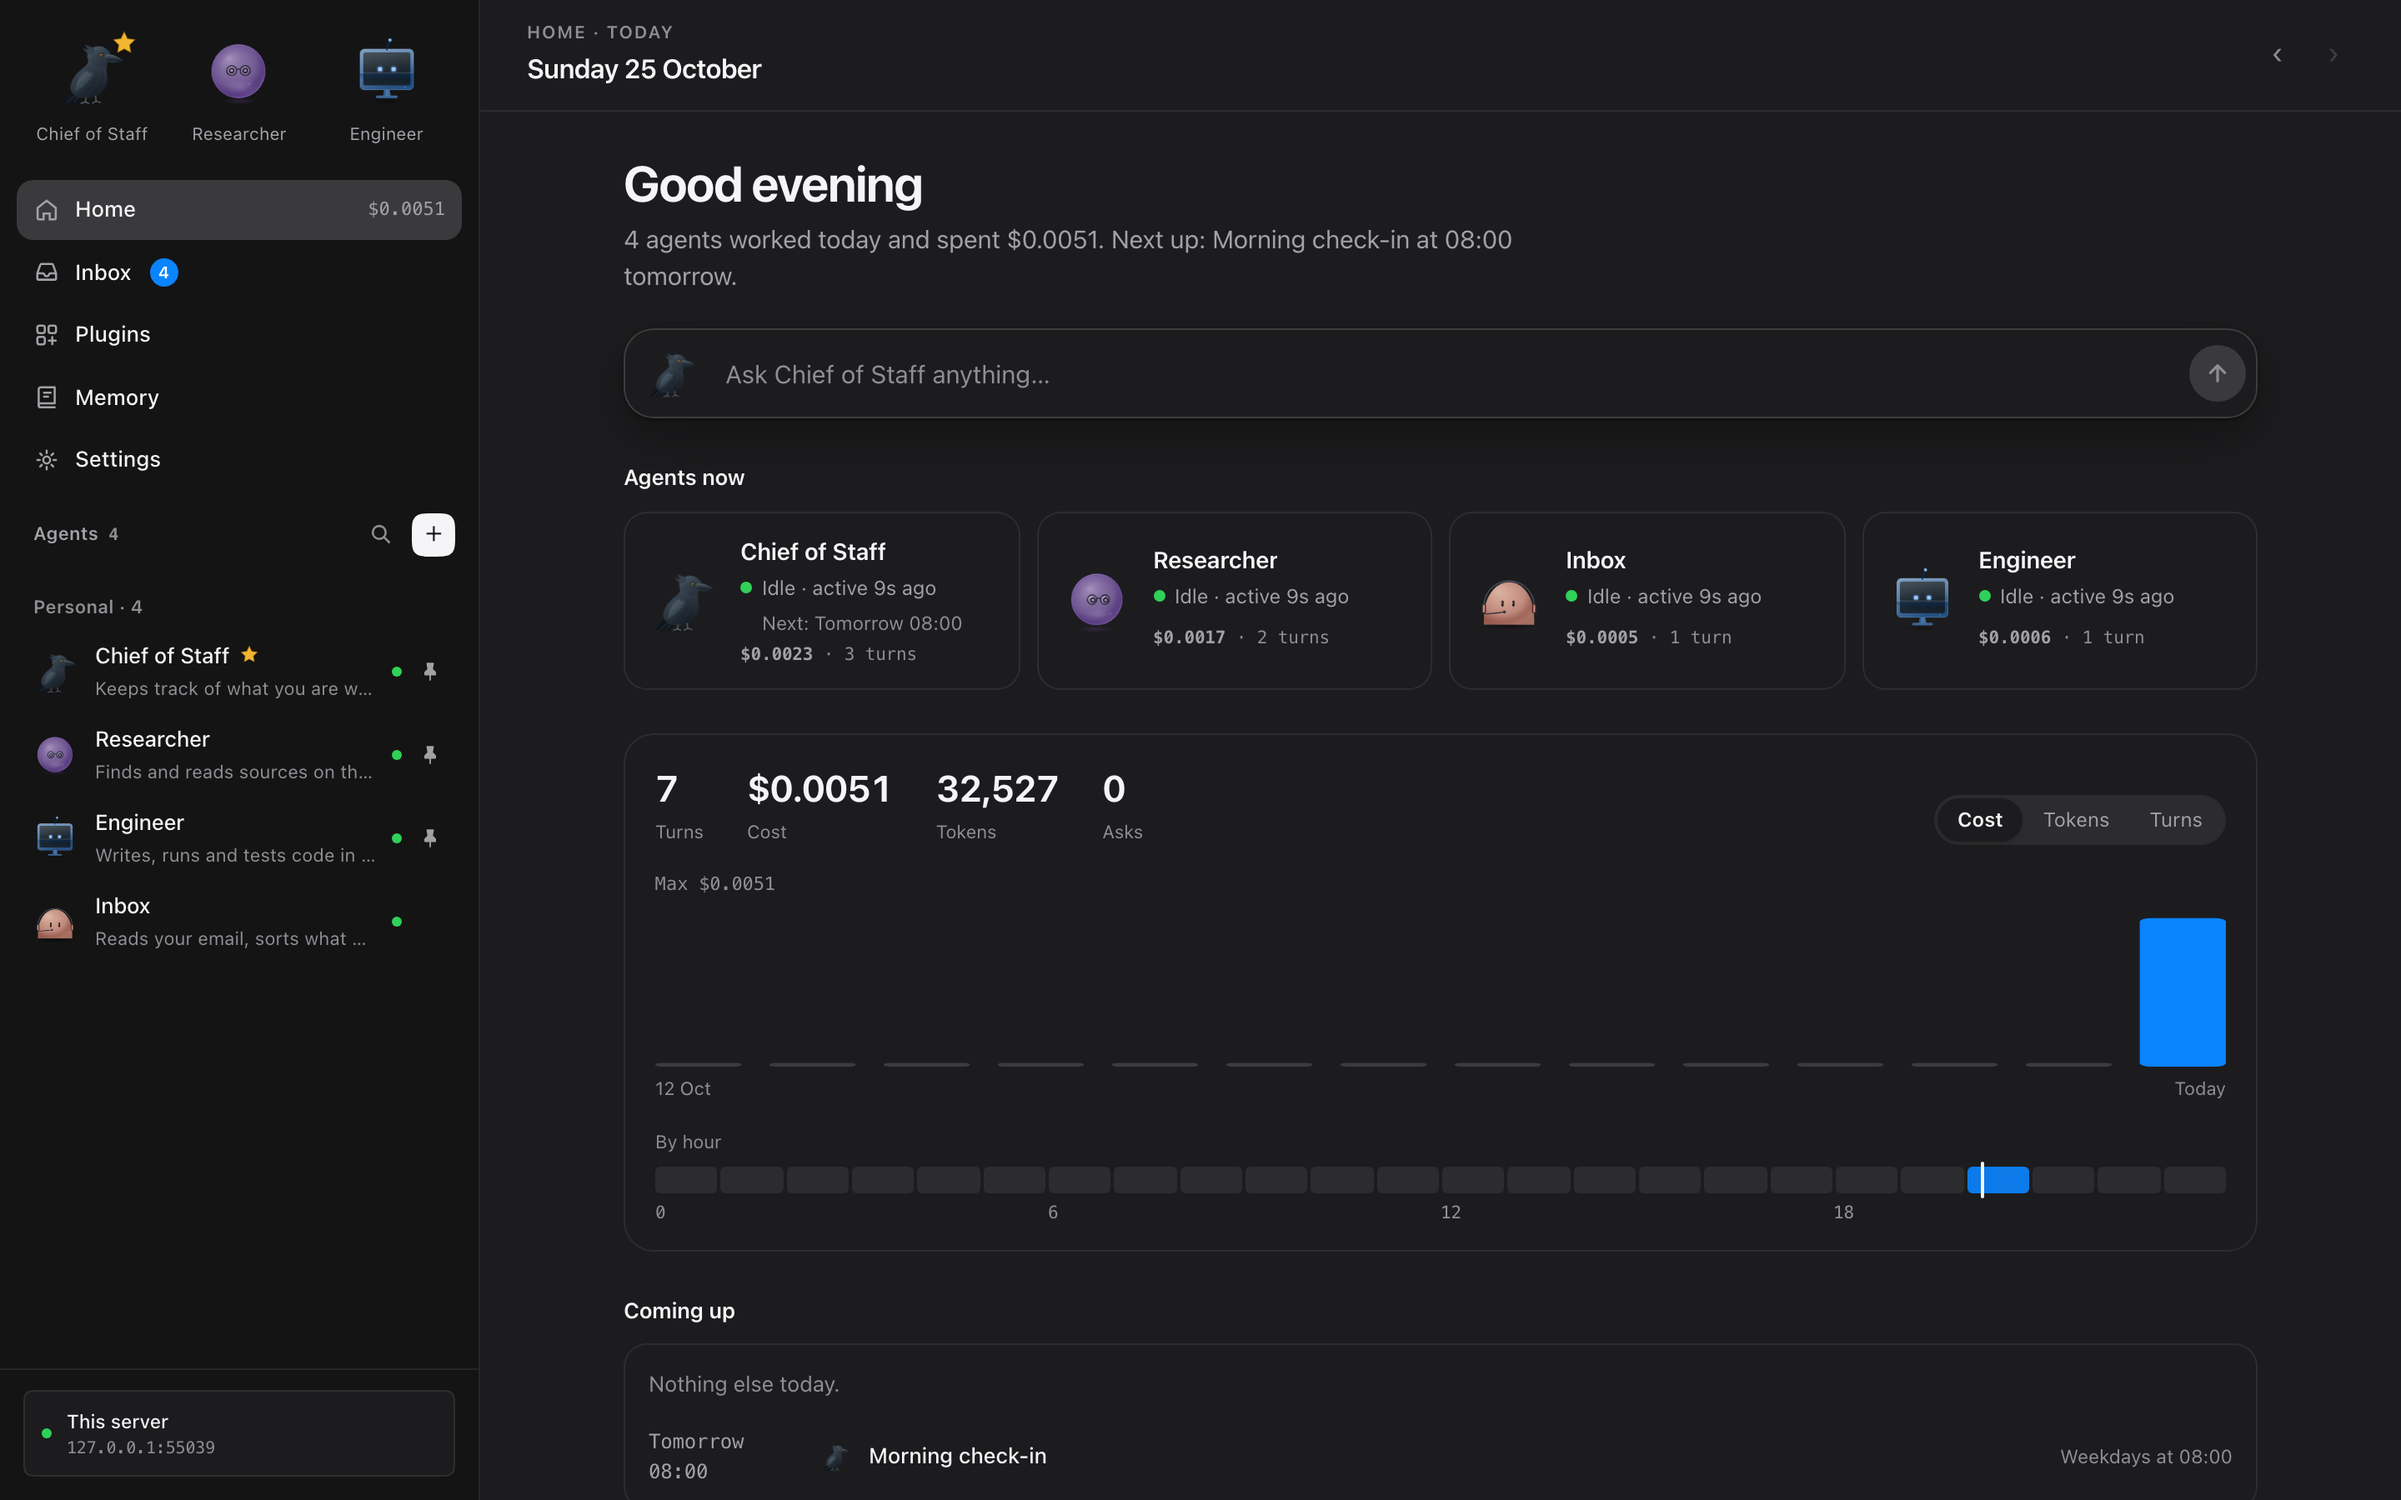
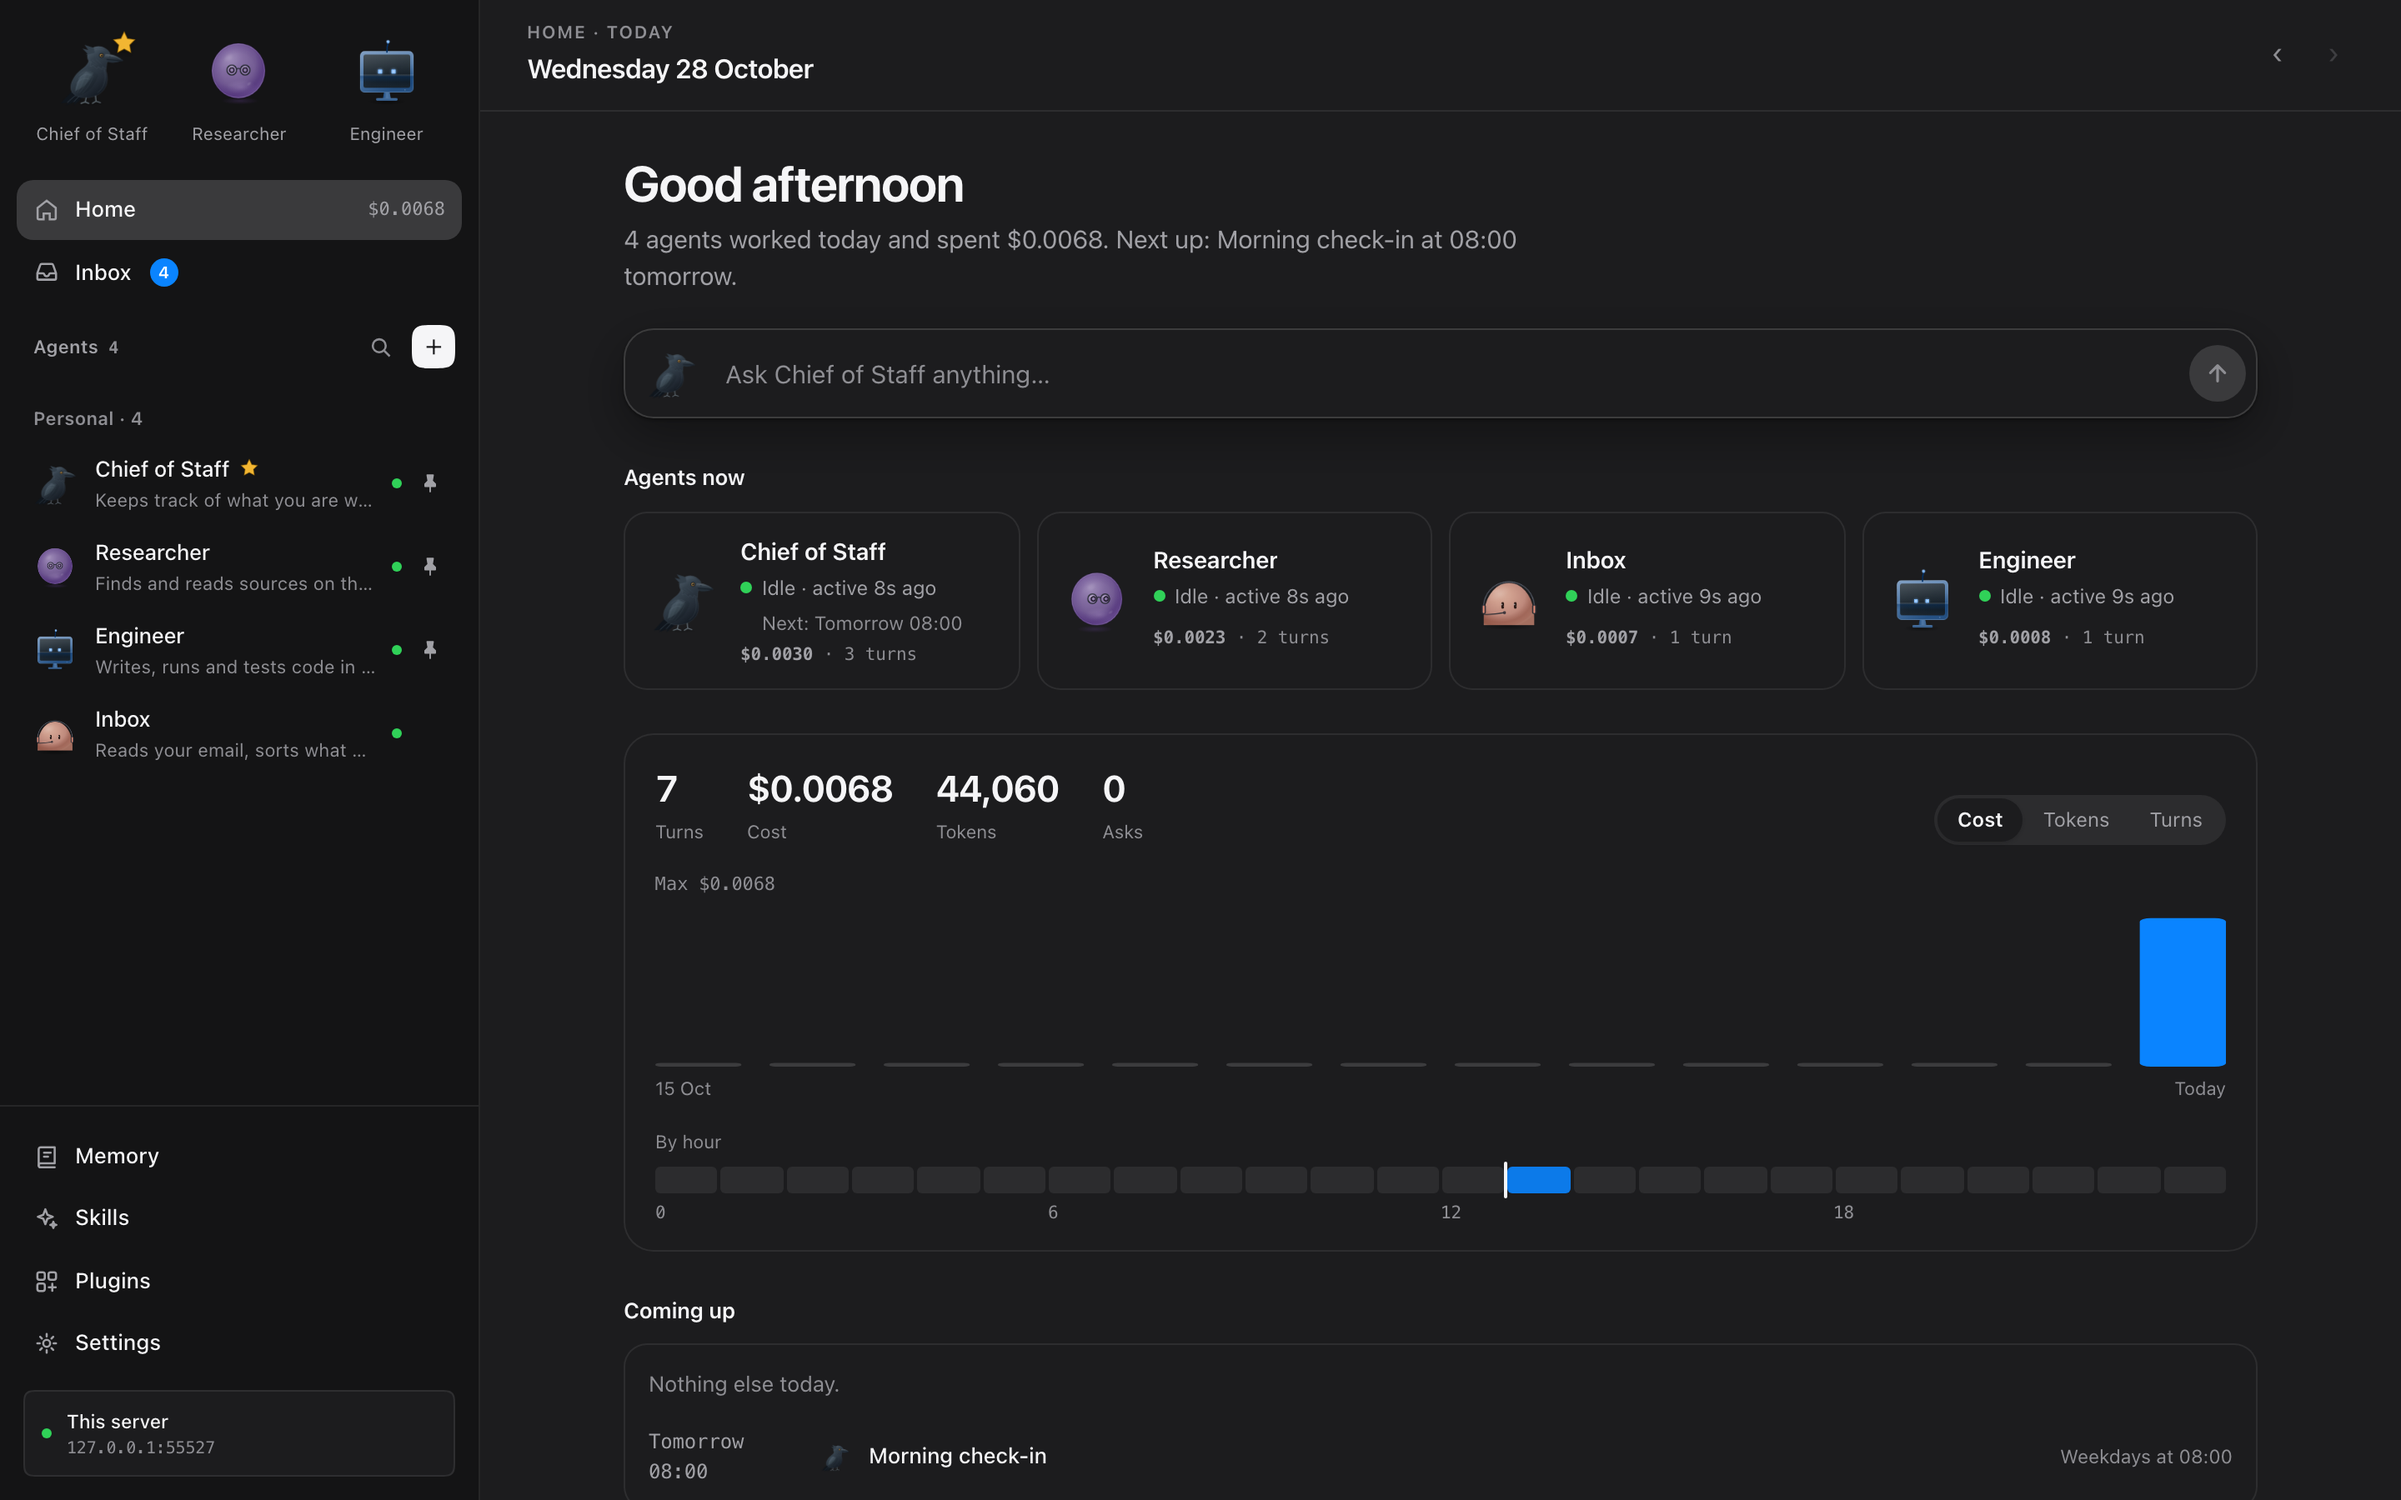
README: screenshots of the current app and the walkthrough

diff --git a/README.md b/README.md
@@ -6,6 +6,13 @@ Persistent agents on your own server, with one shared memory you can read, revie
 
 Give each agent a job, a model and its own browser. It keeps working when you close the tab, runs routines on your server, and brings what it learns back to a shared vault of Markdown notes in git. Use it from your computer or your phone.
 
+<picture>
+  <source media="(prefers-color-scheme: dark)" srcset="docs/media/home-dark.png" />
+  <img src="docs/media/home.png" alt="Ravnir's Home: four agents, what they spent today, and the routine coming up next" width="100%" />
+</picture>
+
+**[Watch the two minute walkthrough](https://ravnir.dev/assets/walkthrough.mp4)**: first-run setup, an agent using its own browser, shared memory you can review and revert, approvals for commands, routines, and the cost of every reply. Recorded in one real session on a free model; the waits while agents work are sped up.
+
 **Public beta (0.1.0).** Expect rough edges and breaking changes before 1.0. See the [roadmap](docs/roadmap.md).
 
 Ravnir is original software under the [MIT license](LICENSE). There is no official token or coin. Ravnir adds no telemetry; the model providers and services you connect have their own data policies.
@@ -13,7 +20,15 @@ Ravnir is original software under the [MIT license](LICENSE). There is no offici
 ## Three things to try
 
 1. **Teach one agent, ask another.** Tell an agent a preference and ask it to remember it. Its commit appears in Memory, and the shared profile note is included in other agents' next turns. Open the diff, follow the link back to the turn, or revert the change. Changes to shared rules and project notes go through proposals for your approval.
+
+   <img src="docs/media/memory-demo.gif" alt="An agent remembers a preference; Memory shows the commit, its diff and a Revert button" width="100%" />
+
 2. **See what a reply cost.** Each completed turn's final reply shows recorded tokens and cost, with a breakdown. Usage shows the ledger totals; routines show their spend. Set daily or monthly caps and receive a warning at 80 percent. When a provider does not report a price, Ravnir shows that limitation rather than inventing a dollar amount or subscription quota percentage.
+
+   <img src="docs/media/thread-cost.png" alt="A reply's Proof line opened: tokens in and out, the model, and the notes it read" width="100%" />
+
+   The screenshots use demo agents and a scripted model at a made-up price.
+
 3. **Leave a routine running.** Schedule a recurring task or a one-time reminder, then close the app. Failed routines appear in Home's Needs you section. Routines with nothing new can stay quiet while retaining a ledger entry. Stuck turns trigger an alert.
 
 These behaviors have automated tests. The [model report card](docs/model-report-card.md) measures what actual models completed, how often they asked for help, and what the runs cost.
